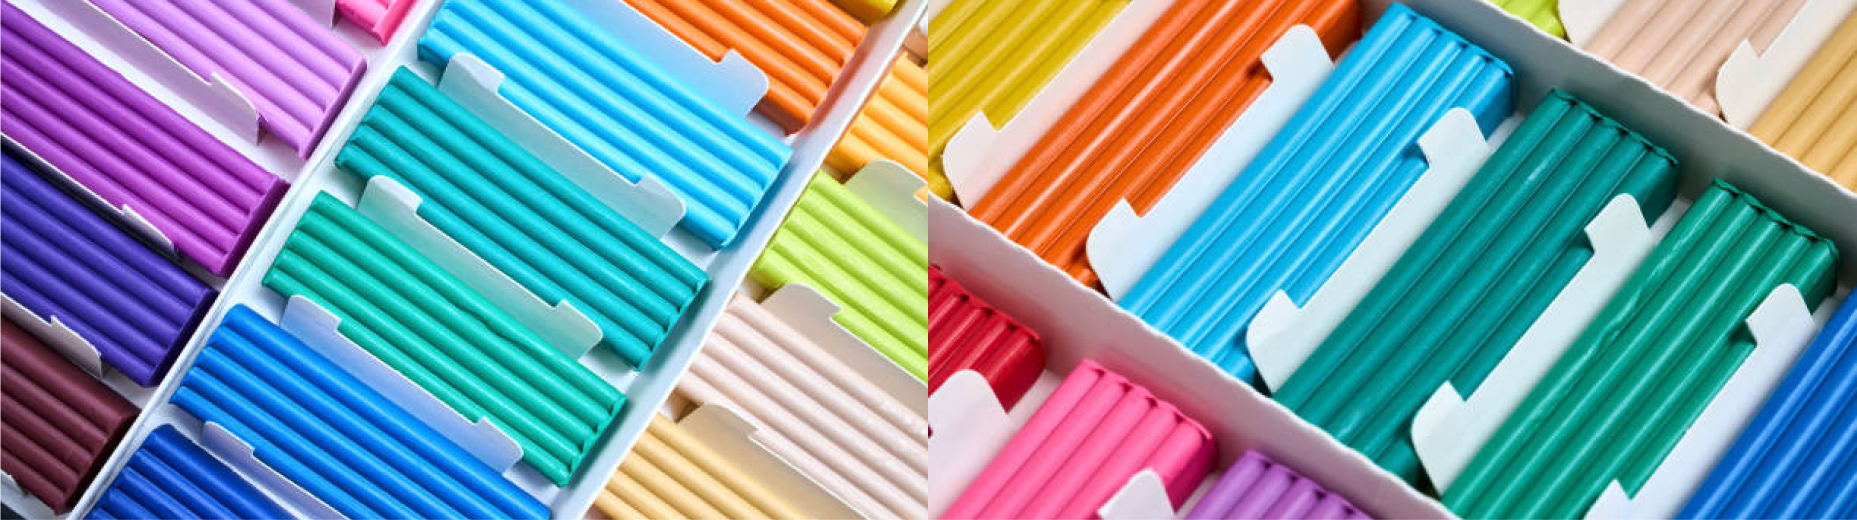
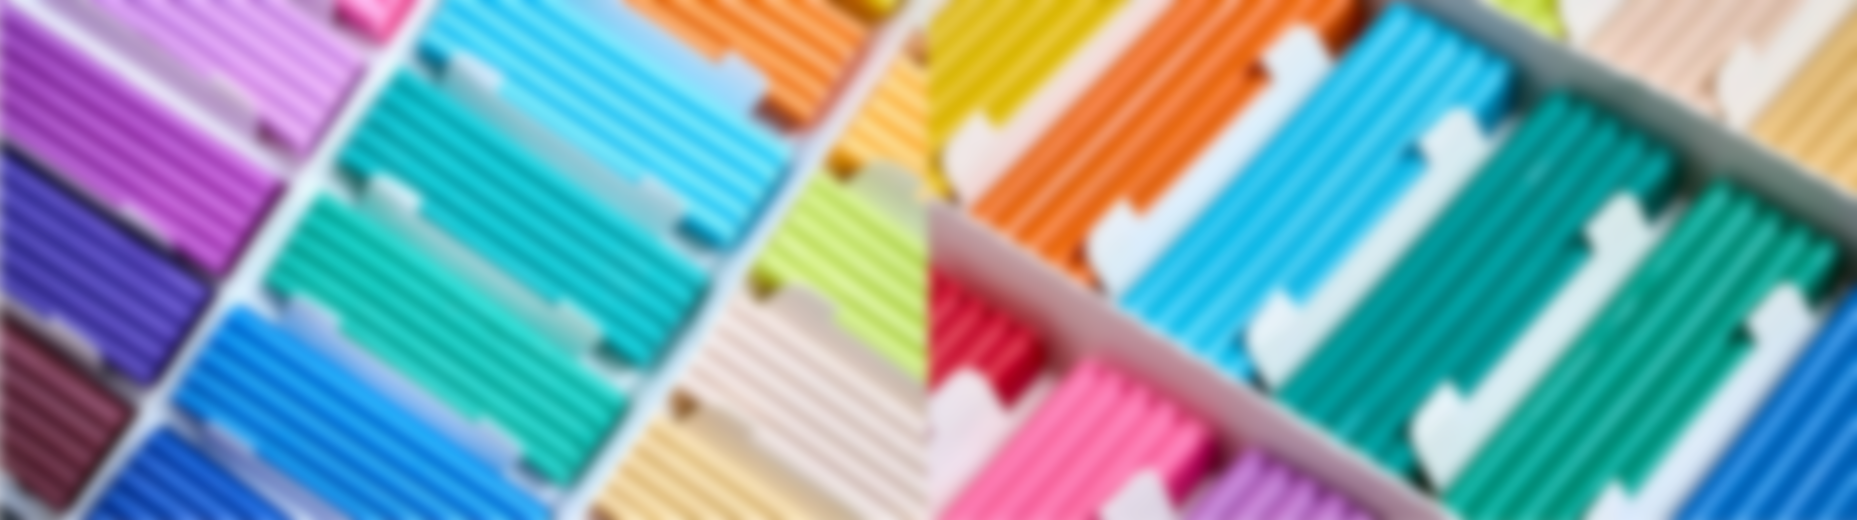
added about page

diff --git a/1-styles.css b/1-styles.css
@@ -2,18 +2,17 @@ body{
     margin: 0;
 }
 
+
+
 /* -----------------------------        Home page      ----------------------------------*/
 
 
 .nav{
-    background-color: rgb(222,222,222);
     
     position: fixed;
     top:0;
 
     width: 100%;
-    padding-top: 0.5%;
-    padding-bottom: 0.5%;
 
     display: flex;
     flex-direction: column;
@@ -21,8 +20,12 @@ body{
 
 
 .buttons{
+    background-color: rgb(222, 222,222);
+
     width: 100%;
+    padding: 0.5%;
     margin: auto;
+
     text-align: center;
 }
 
@@ -49,7 +52,6 @@ body{
 .nav-blue{
     width: 100%;
     height: 9px;
-    margin-top: 10px;
 
     background-color: rgb(179,197,229);
     font-size: 0;
@@ -194,7 +196,7 @@ h3{
 }
 
 .wp2-center h2{
-    margin-top: 75px;
+    margin-top: 150px;
     margin-bottom: 0px;
 
     font-size: 260%;
@@ -213,21 +215,63 @@ h3{
 /* -----------------------------        Clay page      ----------------------------------*/
 
 
-.wp3-title{
-    text-align: center;
-    
+.wp3-title{    
+    display: flex;
+
     height: 500px;
     width: 100%;
     margin-top: 200px;
 
+    font-size: 200%;
+
+    justify-content: center;
+    align-items: center;
+
     background-image: url(photos/clay-colours.png);
     background-position: center;
     background-repeat: no-repeat;
+}
 
+.wp3-title h1{
+    filter: drop-shadow(0px 10px 8px rgb(30,30,30));
+}
+
+.wp3-title2{
+    margin-top: 100px;
+    margin-bottom: 100px;
+
+    text-align: center;
+}
+
+.wp-img1{
+    display: flex;
+
+    justify-content: center;
+
+    margin: 3%;
+    height: 500px;
+    width: 100%;
+}
+
+.wp-img1 img{
+    margin-left: 4%;
 }
 
 
+/* -----------------------------        About page      ----------------------------------*/
 
+.wp4-main{
+    display: flex;
+    justify-content: center;
 
+    height: 600px;
+    margin-top: 200px;
+}
+
+.wp4-secondary{
+
+    margin-left: 10%;
+    width: 30%;
+}
 
 

diff --git a/wp4-about.html b/wp4-about.html
@@ -17,5 +17,17 @@
                 <p>a</p>
             </div>
         </div>
+
+        <div class="wp4-main">
+            <img src="photos/me.png" alt="">
+            <div class="wp4-secondary">
+                <h2>Contact me</h2>
+                <h3>harleylynas@gmail.com</h3>
+                <h3>Phone number</h3>
+                <h3>If you like my work or want to inquire about any of my projects, feel free to reach out via my email or phone number. I'm always happy to take a call!</h3>
+            </div>
+
+        </div>
+
     </body>
 </html>

diff --git a/wp3-clay.html b/wp3-clay.html
@@ -18,7 +18,11 @@
             </div>
         </div>
 
-        <h2 class="wp3-title">Clay Modelling</h2>
+        <div class="wp3-title">
+            <div>
+                <h1>Clay Modelling</h1>
+            </div>
+        </div>
         <h3 class="wp3-title2">Clay modelling is one of my favourite pastimes, take a look at some of my previous projects!</h3>
 
         <div class="wp-img1">
